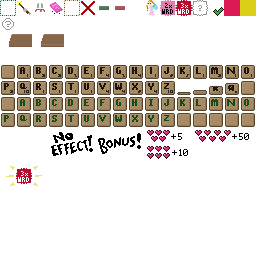
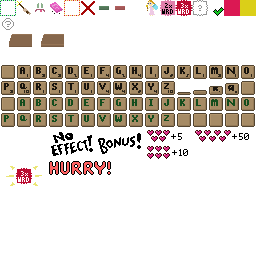
2p: Reduce initial HP, and add a Hurry clock

Changed region(s): [[0.1875, 0.625, 0.4375, 0.6875]]

diff --git a/src/game/battle/battle_context.c b/src/game/battle/battle_context.c
@@ -99,6 +99,8 @@ static void battle_begin_GATHER(struct battle *battle) {
     battle->stageclock=0.0;
   }
   
+  battle->hurryclock=0.0;
+  battle->hurrysmall=0.0;
   battle->w_msg=0;
   battle->first=0;
   battle->second=0;
@@ -234,6 +236,32 @@ static void battle_advance(struct battle *battle) {
   }
 }
 
+/* Update the hurry clock, and damage the laggard if warranted.
+ */
+ 
+static void battle_update_hurry(struct battle *battle,double elapsed) {
+  if (!battle->p1.human||!battle->p2.human) return; // Only for human-vs-human battles.
+  if (battle->p1.ready||battle->p2.ready) {
+    battle->hurryclock+=elapsed;
+  } else {
+    // Both not ready. Zero the clock and do nothing.
+    battle->hurryclock=0.0;
+    return;
+  }
+  if (battle->hurryclock<7.0) return; // You get a few seconds for free.
+  if ((battle->hurrysmall-=elapsed)>0.0) return;
+  battle->hurrysmall+=1.0;
+  // Deal 1 HP of damage to whichver isn't ready. Do not take their final HP.
+  if (battle->p1.ready) {
+    if (battle->p2.hp<2) return;
+    battle->p2.hp--;
+  } else if (battle->p2.ready) {
+    if (battle->p1.hp<2) return;
+    battle->p1.hp--;
+  }
+  egg_play_sound(RID_sound_letterslap);
+}
+
 /* Update.
  */
 
@@ -275,6 +303,7 @@ int battle_update(struct battle *battle,double elapsed) {
     case BATTLE_STAGE_WELCOME: break;
     
     case BATTLE_STAGE_GATHER: {
+        battle_update_hurry(battle,elapsed);
         battler_update(&battle->p1,elapsed,battle);
         battler_update(&battle->p2,elapsed,battle);
         // Set (first) if we don't have it yet.

diff --git a/src/game/battle/battle_render.c b/src/game/battle/battle_render.c
@@ -559,6 +559,27 @@ void battle_render(struct battle *battle) {
   battle_draw_hand(battle,&battle->p1,p1faced,0,(battle->p1.human)&&(battle->stage==BATTLE_STAGE_GATHER));
   battle_draw_hand(battle,&battle->p2,p2faced,g.fbw>>1,(battle->p2.human)&&(battle->stage==BATTLE_STAGE_GATHER));
   
+  /* "Hurry" indicator.
+   */
+  if ((battle->stage==BATTLE_STAGE_GATHER)&&(battle->hurryclock>5.0)) {
+    const int margin=TILESIZE*2;
+    int dstx=0;
+    if (battle->p1.ready) dstx=g.fbw-TILESIZE*4-margin;
+    else if (battle->p2.ready) dstx=margin;
+    if (dstx) {
+      int texid=texcache_get_image(&g.texcache,RID_image_tiles);
+      double whole=0.0;
+      double fa=modf(battle->hurryclock,&whole);
+      int alpha=(int)((1.0-fa)*256.0);
+      if (alpha>0) {
+        if (alpha>0xff) alpha=0xff;
+        graf_set_alpha(&g.graf,alpha);
+        graf_draw_decal(&g.graf,texid,dstx,12,TILESIZE*3,TILESIZE*10,TILESIZE*4,TILESIZE,0);
+        graf_set_alpha(&g.graf,0xff);
+      }
+    }
+  }
+  
   /* If there's a message, display it a little up of center.
    */
   if ((battle->w_msg>0)&&(battle->h_msg>0)) {

diff --git a/src/game/battle/battler.c b/src/game/battle/battler.c
@@ -24,7 +24,7 @@ void battler_init_human(struct battler *battler) {
     memcpy(battler->name,"Moon",4);
     battler->namec=4;
     battler->avatar.y=BATTLER_AVATAR_H;
-    battler->hp=100;
+    battler->hp=50;
   }
   battler->disphp=battler->hp;
   battler->avatar.imageid=RID_image_avatars;
@@ -41,13 +41,12 @@ void battler_human_nocontext(struct battler *battler) {
     memcpy(battler->name,"Dot",3);
     battler->namec=3;
     battler->avatar.y=0;
-    battler->hp=100;
   } else {
     memcpy(battler->name,"Moon",4);
     battler->namec=4;
     battler->avatar.y=BATTLER_AVATAR_H;
-    battler->hp=100;
   }
+  battler->hp=50;
   memset(battler->inventory,0,sizeof(battler->inventory));
   battler->disphp=battler->hp;
   battler->avatar.imageid=RID_image_avatars;

diff --git a/src/game/battle/battle.h b/src/game/battle/battle.h
@@ -45,6 +45,8 @@ struct battle {
   int novowels; // If set, we'll remove all vowels from the letterbag at each shuffle.
   int dark;
   int restore_hp; // For Black Belt Challenge.
+  double hurryclock; // Counts up after the first submit, in 2-player mode.
+  double hurrysmall; // Interval between hurryclock damages.
   
   double cursorclock;
   int cursorframe;

diff --git a/README.md b/README.md
@@ -22,8 +22,8 @@ Gives us about 57k words in a 400 kB resource.
 - - I think there's something wrong in native too. Hardly ever happens and not very noticeable when it does, but there can be a kathunk when a song begins.
 - - ...the native bit might be in my head.
 - [ ] 2p: Choose an avatar and background.
-- [ ] 2p: Drop initial HP. Say 50?
-- [ ] 2p: Slowly bleed HP after the first player submits.
+- [x] 2p: Drop initial HP. Say 50? ...50 feels good, nice and light.
+- [x] 2p: Slowly bleed HP after the first player submits.
 
 ## Dictionary Notes
 
